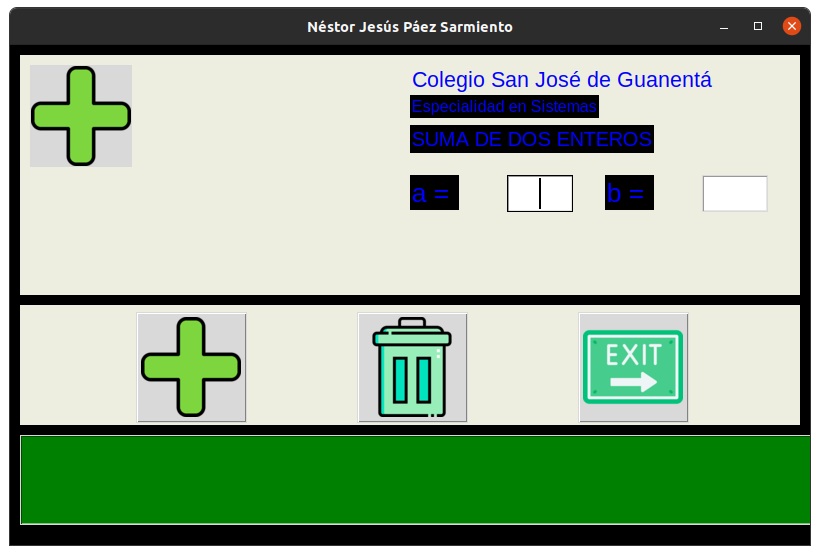
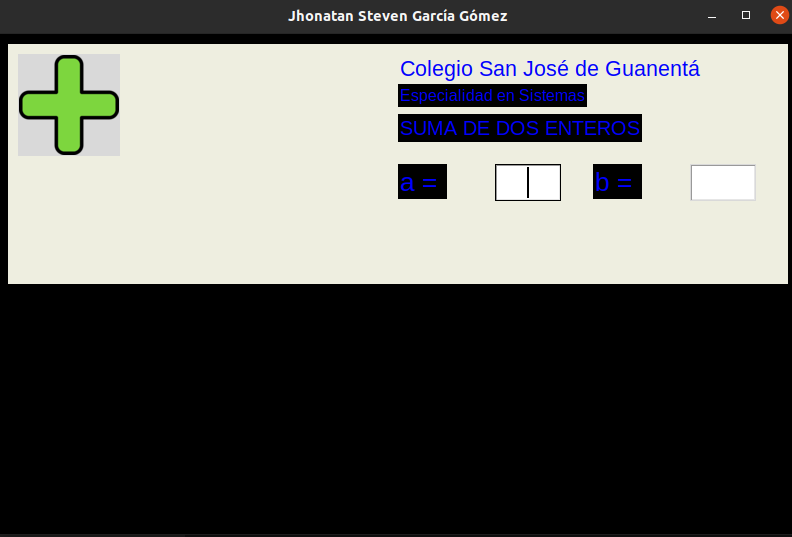
Se agrega el frame de operaciones

diff --git a/gui_1/gui_1.py b/gui_1/gui_1.py
@@ -31,7 +31,7 @@ def salir():
 ventana_principal = Tk()
 
 # titulo de la ventana
-ventana_principal.title("Néstor Jesús Páez Sarmiento")
+ventana_principal.title("Jhonatan Steven García Gómez")
 
 # establecer tamaño a la ventana
 ventana_principal.geometry("800x500")
@@ -100,6 +100,7 @@ entry_b = Entry(frame_entrada, width=4, textvariable=b)
 entry_b.config(font=("Arial", 20))
 entry_b.place(x=682,y=120)
 
+
 # ------------------
 # frame operaciones
 # ------------------
@@ -125,6 +126,7 @@ bt_sal = PhotoImage(file="gui_1/img/boton_salir.png")
 bt_salir = Button(frame_operaciones, image=bt_sal, width=105, height=105, command=salir)
 bt_salir.place(x=558, y=7)
 
+'''
 # ------------------
 # frame resultados
 # ------------------
@@ -135,7 +137,7 @@ frame_resultados.place(x=10,y=390)
 # area de texto para resultados
 t_resultados = Text(frame_resultados, width=50, height=3)
 t_resultados.config(bg="green", fg="white", font=("Courier", 20))
-t_resultados.pack()
+t_resultados.pack()'''
 
 # se ejecuta el metodo mainloop() de la clase Tk() a través de la instancia ventana_principal.  Este metodo despliega una ventana simple en pantalla y queda a la espera de lo que el usuario haga (click en boton, escribir, etc).  Cada accion del usuario se conoce como un evento.  El metodo mainloop() es un bucle infinito.
 ventana_principal.mainloop()
